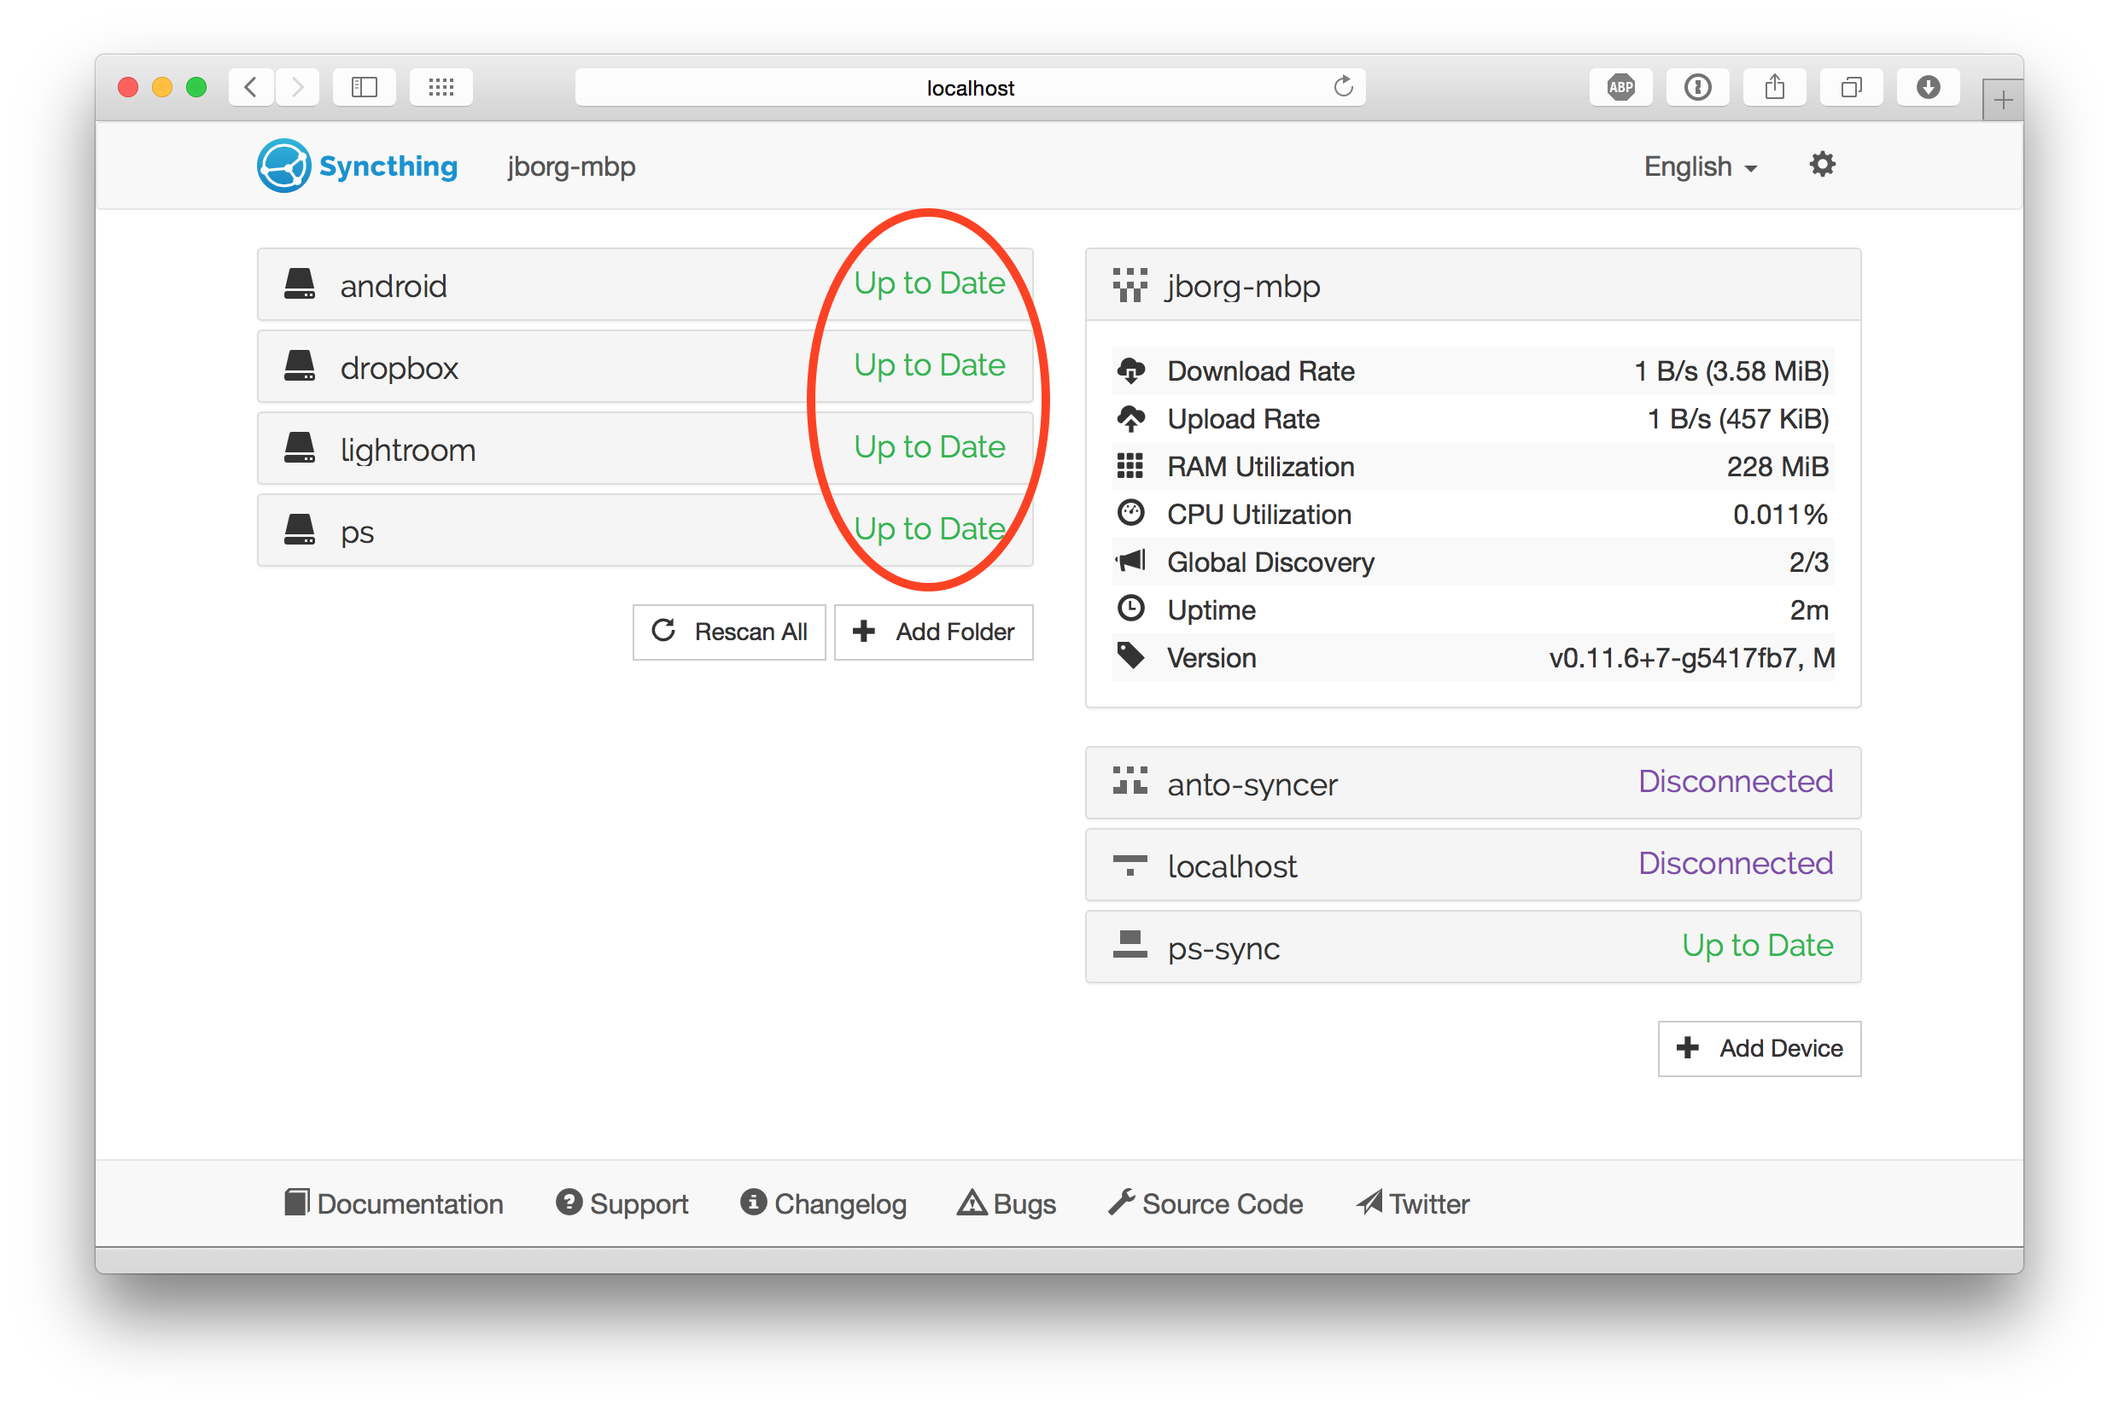
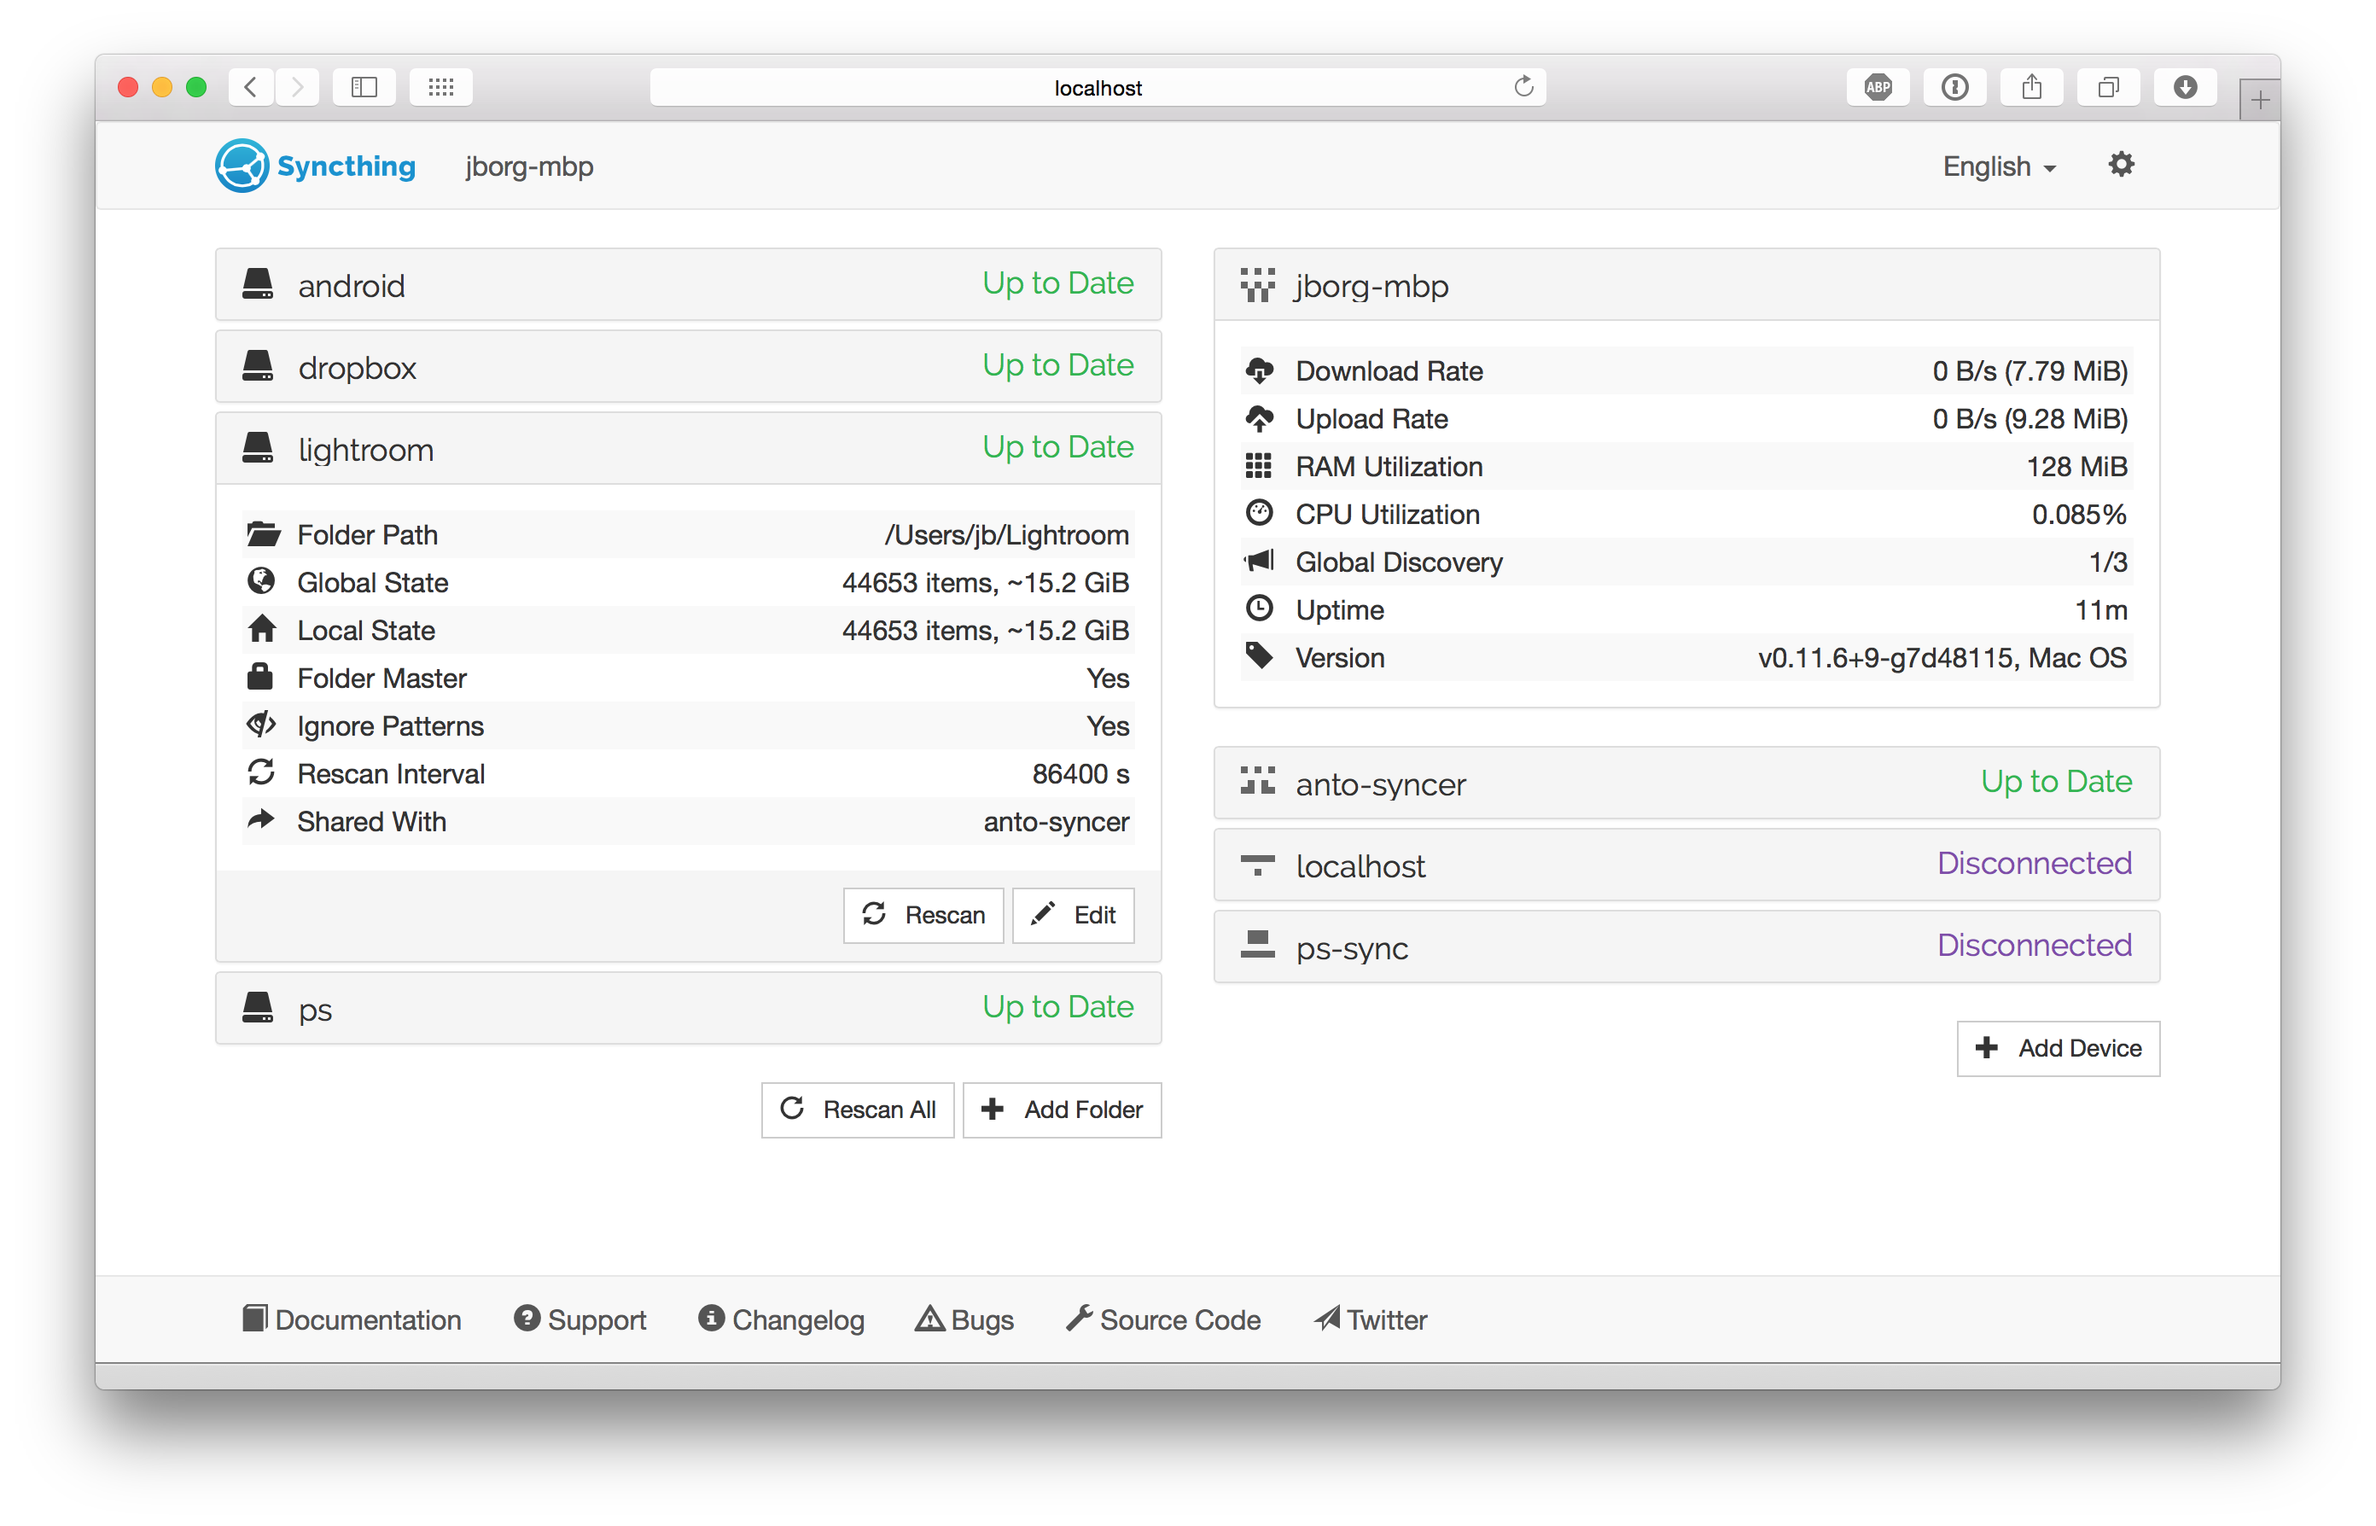
GUI

diff --git a/public/css/syncthing.css b/public/css/syncthing.css
@@ -7,3 +7,7 @@
 	color: rgba(255, 255, 255, 0.498039);
 	padding-left: 0.5em;
 }
+
+p {
+	text-align: justify;
+}

diff --git a/_intro/gui.md b/_intro/gui.md
@@ -3,42 +3,43 @@ layout: page
 title: An intro to the GUI
 ---
 
-## Local State
+## Folder View
 
-Left side of the screen shows the local state (your device state).  You can
-see a list of folders you have, and as you click on one folder name, it
-expands to show you about that folder. Next to folder name, you can will see
-the state of the folder:
+The left side of the screen shows the ID and current state of all configured
+folders. Clicking the folder name makes that section expand to show more
+detailed folder information, and buttons for editing the configuration or
+forcing a rescan.
 
 ![gui1.png](gui1.png)
 
+A folder can be in any one of these states:
+
  - *Unknown* while the GUI is loading.
+ 
  - *Unshared* when you have not shared this folder,
+ 
  - *Stopped* when the folder has experienced an error,
+ 
  - *Scanning* while the folder is lookign for local changes,
+ 
  - *Up to Date* when the folder is in sync with the rest of the cluster,
+ 
  - *Syncing* when this device is downloading changes from the network.
 
-In the information about each folder, you can see information about number of
-files and the size of folder:
+Among the folder details, you can see the current "Global State" and "Local State" summaries, as well as the amount of "Out of Sync" data if the the folder state is not up to date.
 
- - *Global State* indicates how many files there are between all devices in this folder - this is the currently desired state for each device.
- - *Local State* shows how many files this devices currently has.
+ - *Global State* indicates how much data the fully up to date folder contains - this is basically the sum of the newest versions of all files from all connected devices. This is the size of the folder on your computer when it is fully in sync with the cluster.
+ 
+ - *Local State* shows how much data the folder actually contains right now. This can be more or less than the global state, if the folder is currently synchronizing with other devices.
 
-<p class="message warning">
-If the size of the *local state* is lower than the
-*global state* this implies that the folder it's not yet synchronized, or that
-you have defined *ignore patterns* and not all files for the given folder will
-be synchronized.
-</p>
+ - *Out of Sync* shows how much data that needs to be synchronized from other devices. Note that this is the sum of all out of sync *files* - if you already have parts of such a file, or an older version of the file, less data than this will need to be transferred over the network.
 
-## Remote State
+## Device View
 
-Bottom right side of the screen shows the overall state of the remote devices
-(overall completion percentage over all of the common folders between your
-device and the remote device.)
-
-![gui2.png](gui2.png)
-
-If a device has one or more folders to sync, you will see it with status
-*Syncing* and a percentage indicating its progress.
+The right side of the screen shows the overall state of all configured
+devices. The local device (your computer) is always at the top, with remote
+devices in alphabetical order below. For each device you see its current state
+and, when expanded, more detailed information. All transfer rates ("Download
+Rate" and "Upload Rate") are from the perspective of your computer, even those
+shown for remote devices. The rates for your local device is the sum of those
+for the remote devices.
